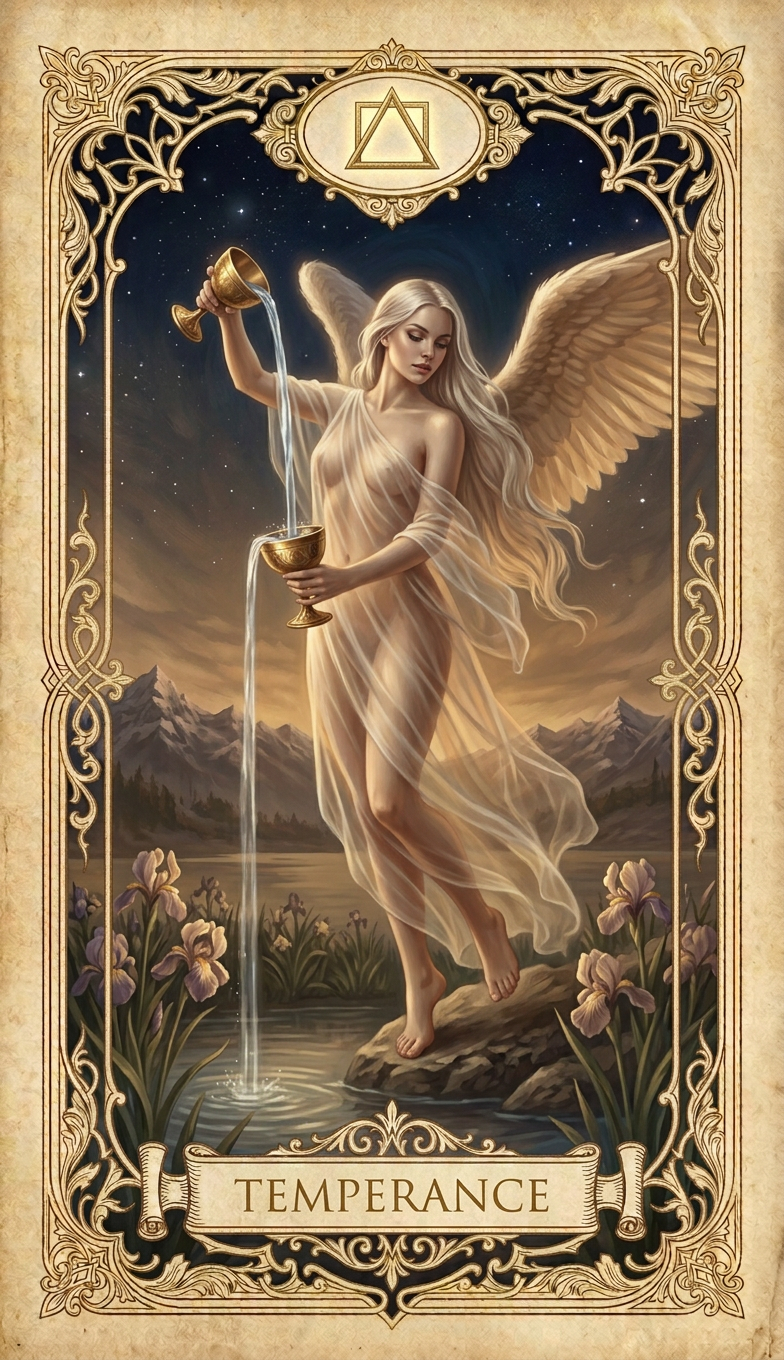
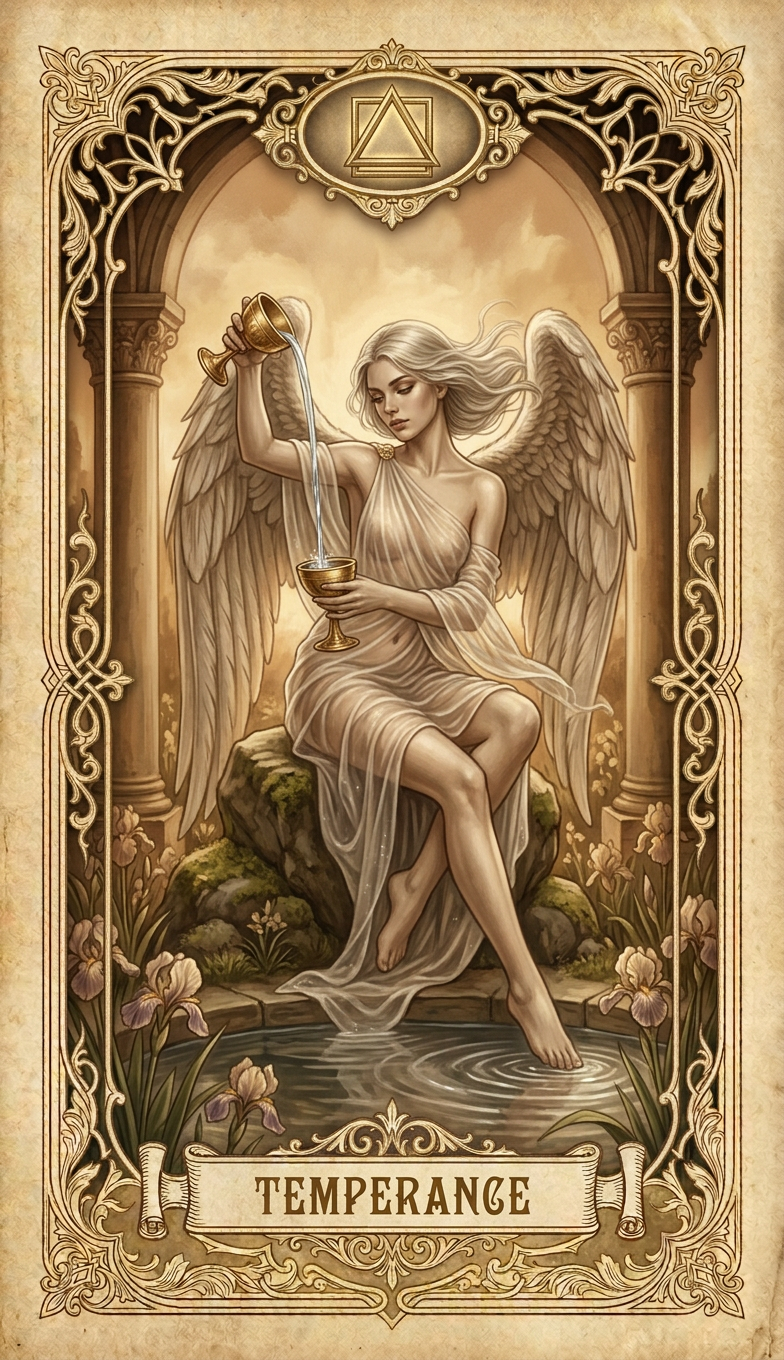
Temperance: apply chosen Sample C (seated on mossy stone)
User selected Sample C: winged figure seated gracefully on a mossy stone by
the pool, one leg trailing into the water, pouring from the tilted upper
chalice into the lower chalice held beneath it (open mouth catching the
straight falling stream). Frame-verified vs The Star (RMSE 0.027). Also
updated scene metadata and regenerated prompts + gallery.

Note: workspace had been reset to 49ff7e3 between turns; recovered all 78
cards from remote (f07d516) and re-applied the chosen sample.

diff --git a/cards/index.html b/cards/index.html
@@ -190,7 +190,7 @@
             <div class="card-details">
                 <div class="card-title">TEMPERANCE</div>
                 <div class="card-meta"><strong>Độ tuổi:</strong> 22 years old &bull; <strong>Huy hiệu:</strong> a triangle within a square</div>
-                <div class="card-scene">a graceful winged figure with long loosened hair, draped in a diaphanous transparent silk veil, standing with one foot on the rock and the other foot in the pool below, pouring from a golden chalice tilted high in her raised hand while her other hand holds a second golden chalice positioned directly beneath the upper chalice's lip so that its open mouth catches the falling water, a single smooth unbroken stream of water pouring straight down from the tilted upper chalice and landing inside the lower chalice's bowl, irises blooming around the pool, warm sepia and ochre light</div>
+                <div class="card-scene">a graceful winged figure with long loosened hair, draped in a diaphanous transparent silk veil, seated gracefully on a mossy stone by the pool with one leg trailing into the water, pouring from a golden chalice tilted high in her raised hand while her other hand holds a second golden chalice positioned directly beneath the upper chalice's lip so that its open mouth catches the falling water, a single smooth unbroken stream of water pouring straight down from the tilted upper chalice and landing inside the lower chalice's bowl, irises blooming around the pool, warm sepia and ochre light</div>
             </div>
         </div>
         <div class="card-item">
